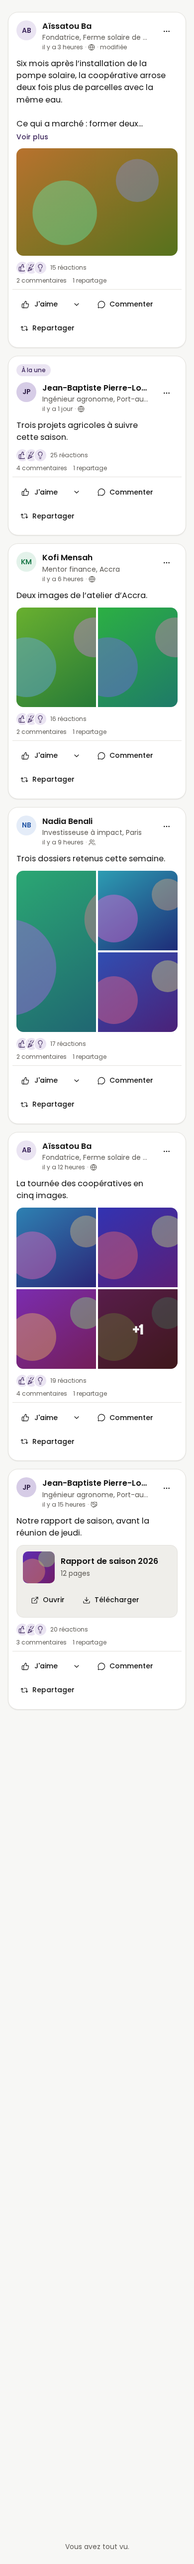
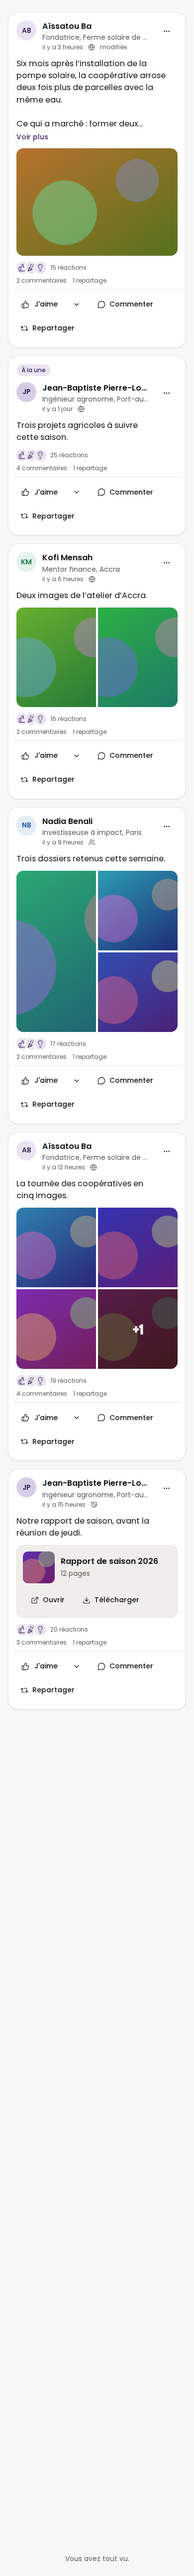
fix(content): never leave a stale space below the virtualized feed
The bottom padding mixed the size counted from the top of the list with positions counted from
the top of the page: negative, the browser kept the previous padding, a space that depended on
when the entries were measured (the unstable review capture).

diff --git a/apps/web/src/features/content/components/feed/feed-list.tsx b/apps/web/src/features/content/components/feed/feed-list.tsx
@@ -474,7 +474,15 @@ export function FeedList({
           start && virtualizer
             ? {
                 paddingTop: virtualItems[0] ? virtualItems[0].start - start.margin : 0,
-                paddingBottom: virtualizer.getTotalSize() - (virtualItems.at(-1)?.end ?? 0),
+                // The total size is counted from the top of the list, the positions of the
+                // entries from the top of the page. Never negative: the browser drops a negative
+                // padding and keeps the previous one (a space left below a short feed, depending
+                // on when the entries were measured).
+                paddingBottom: Math.max(
+                  0,
+                  virtualizer.getTotalSize() -
+                    ((virtualItems.at(-1)?.end ?? start.margin) - start.margin),
+                ),
                 overflowAnchor: 'none',
               }
             : undefined
